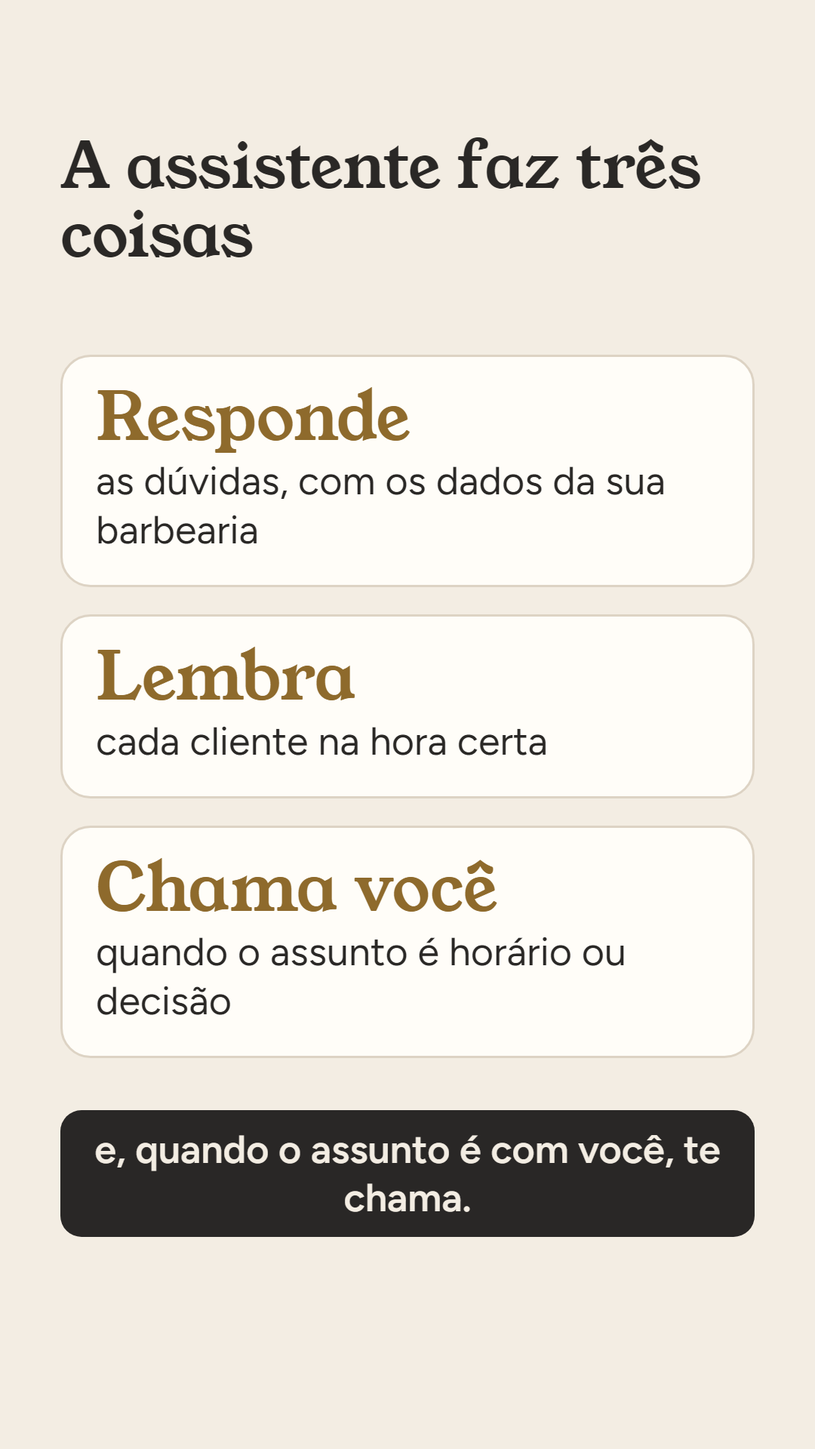
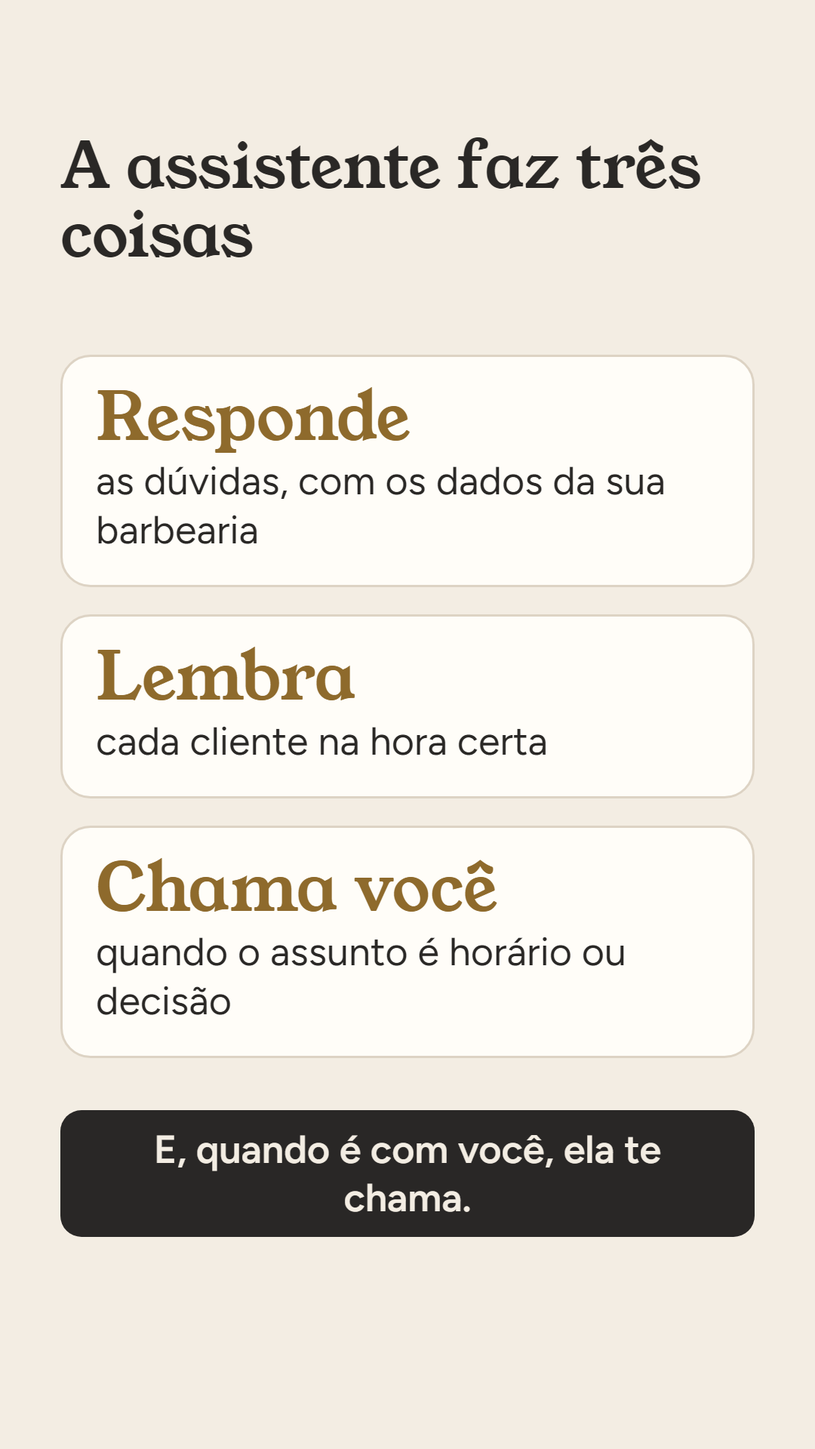
AI-007: narração clara, sem "IA", com a voz B
DEC-014: falas reescritas em frases curtas e pausadas, sem "IA",
palavras estrangeiras, siglas, algarismos ou nome da barbearia; voz B
(pt-BR, ênfase 0,35, ritmo 0,3) como padrão em cenas.json. Verificador
cobre as novas regras; narrar.py usa o texto falado e monta o áudio
completo. Roteiro passa a 148,5 s.

Changed region(s): [[0.1222, 0.7812, 0.8861, 0.8125]]

diff --git a/docs/propostas/barbearia/whatsapp/video/narracao/narrar.py b/docs/propostas/barbearia/whatsapp/video/narracao/narrar.py
@@ -19,8 +19,9 @@ from chatterbox.mtl_tts import ChatterboxMultilingualTTS
 
 PASTA_VIDEO = Path(__file__).resolve().parent.parent
 MODELOS = ["ptbr", "multi"]
-# Ajustes de pronúncia: o texto falado pode diferir da legenda.
-PRONUNCIA = {r"\bIA\b": "I.A."}
+# Ajustes de pronúncia, se algum termo soar mal. Preferir reescrever a fala (campo "fala"
+# em cenas.json): siglas, palavras estrangeiras e algarismos ficam fora da narração (DEC-014).
+PRONUNCIA = {}
 
 
 def carregar_ptbr(device):
@@ -70,7 +71,7 @@ def carregar_ptbr(device):
 def carregar():
     config = json.loads((PASTA_VIDEO / "config.json").read_text(encoding="utf-8"))
     roteiro = json.loads((PASTA_VIDEO / "cenas.json").read_text(encoding="utf-8"))
-    return config, roteiro["cenas"]
+    return config, roteiro["cenas"], roteiro.get("voz", {})
 
 
 def preencher(texto, config):
@@ -87,16 +88,16 @@ def trechos(cena):
     """(início, fim, texto) de cada trecho narrado, em segundos dentro da cena."""
     fim_cena = cena["duracao_s"]
     if cena["legendas"]:
-        return [(l["de"], l["ate"], l["texto"]) for l in cena["legendas"]]
+        return [(l["de"], l["ate"], l.get("fala", l["texto"])) for l in cena["legendas"]]
     if cena["tipo"] == "frase":
         linhas = cena["linhas"]
-        return [(l["de"], linhas[i + 1]["de"] if i + 1 < len(linhas) else fim_cena, l["texto"]) for i, l in enumerate(linhas)]
+        return [(l["de"], linhas[i + 1]["de"] if i + 1 < len(linhas) else fim_cena, l.get("fala", l["texto"])) for i, l in enumerate(linhas)]
     if cena["tipo"] == "perguntas":
         itens = cena["itens"]
-        lista = [(0.3, itens[0]["de"], cena["titulo"])]
+        lista = [(0.3, itens[0]["de"], cena.get("titulo_fala", cena["titulo"]))]
         for i, item in enumerate(itens):
             fim = itens[i + 1]["de"] if i + 1 < len(itens) else fim_cena
-            lista.append((item["de"], fim, f'{item["titulo"]} {item["texto"]}'))
+            lista.append((item["de"], fim, item.get("fala", f'{item["titulo"]} {item["texto"]}')))
         return lista
     return []
 
@@ -105,14 +106,17 @@ def main():
     ap = argparse.ArgumentParser()
     ap.add_argument("--cenas", default="todas", help="números das cenas separados por vírgula, ou 'todas'")
     ap.add_argument("--nome", default="narracao", help="subpasta de saida/narracao/")
-    ap.add_argument("--modelo", choices=MODELOS, default="ptbr")
-    ap.add_argument("--exaggeration", type=float, default=0.5)
-    ap.add_argument("--cfg", type=float, default=0.5)
+    ap.add_argument("--modelo", choices=MODELOS, help="padrão: bloco 'voz' de cenas.json")
+    ap.add_argument("--exaggeration", type=float, help="ênfase; padrão: bloco 'voz' de cenas.json")
+    ap.add_argument("--cfg", type=float, help="ritmo; padrão: bloco 'voz' de cenas.json")
     ap.add_argument("--voz", help="arquivo de áudio de referência (só com direito de uso)")
     ap.add_argument("--semente", type=int, default=42)
     args = ap.parse_args()
 
-    config, cenas = carregar()
+    config, cenas, voz = carregar()
+    args.modelo = args.modelo or voz.get("modelo", "ptbr")
+    args.exaggeration = voz.get("exaggeration", 0.5) if args.exaggeration is None else args.exaggeration
+    args.cfg = voz.get("cfg", 0.5) if args.cfg is None else args.cfg
     escolhidas = range(len(cenas)) if args.cenas == "todas" else [int(n) for n in args.cenas.split(",")]
     device = "cuda" if torch.cuda.is_available() else "mps" if torch.backends.mps.is_available() else "cpu"
     modelo = carregar_ptbr(device) if args.modelo == "ptbr" else ChatterboxMultilingualTTS.from_pretrained(device=device, t3_model="v3")
@@ -120,9 +124,11 @@ def main():
     saida.mkdir(parents=True, exist_ok=True)
     print(f"Dispositivo: {device} · modelo: {args.modelo} · exaggeration {args.exaggeration} · cfg {args.cfg}")
 
+    faixas = []
     for n in escolhidas:
         cena = cenas[n]
         faixa = torch.zeros(1, int(cena["duracao_s"] * modelo.sr))
+        faixas.append(faixa)
         for inicio, fim, texto in trechos(cena):
             torch.manual_seed(args.semente)
             onda = modelo.generate(
@@ -142,6 +148,11 @@ def main():
         arquivo = saida / f"cena-{n:02d}-{cena['id']}.wav"
         ta.save(str(arquivo), faixa, modelo.sr)
         print(f"  -> {arquivo.relative_to(PASTA_VIDEO)}")
+
+    if len(faixas) == len(cenas):
+        completa = saida / "narracao-completa.wav"
+        ta.save(str(completa), torch.cat(faixas, dim=-1), modelo.sr)
+        print(f"Vídeo inteiro: {completa.relative_to(PASTA_VIDEO)} ({sum(c['duracao_s'] for c in cenas)} s)")
 
 
 if __name__ == "__main__":

diff --git a/docs/propostas/barbearia/whatsapp/video/roteiro.md b/docs/propostas/barbearia/whatsapp/video/roteiro.md
@@ -1,32 +1,37 @@
 # Roteiro do vídeo para o dono da barbearia
 
-AI-007, etapa 1, para aprovação de Arthur. Fonte do conteúdo do vídeo; `cenas.json` traduz este roteiro para o código e os dois andam juntos. Regras: [prompt](../prompt-video.md), [cenários](../cenarios.md), DEC-011 e DEC-012. Nomes vêm de `config.json` (padrão: Barbearia Exemplo, João, Pedro, Rafael). Valores e benefícios são fictícios.
+AI-007, para aprovação de Arthur. Fonte do conteúdo do vídeo; `cenas.json` traduz este roteiro para o código e os dois andam juntos. Regras: [prompt](../prompt-video.md), [cenários](../cenarios.md), DEC-011, DEC-012, DEC-013 e DEC-014. Nomes vêm de `config.json` (padrão: Barbearia Exemplo, João, Pedro, Rafael). Valores e benefícios são fictícios.
 
-**Formato:** vertical 1080×1920, 30 fps, **145 s**, legendas embutidas. "IA" é dita uma única vez (cena 2). Narração ainda não gravada: entra na etapa 2.
+**Formato:** vertical 1080×1920, 30 fps, **148,5 s**, legendas embutidas. **Voz:** Chatterbox local, variante pt-BR, ênfase 0,35 e ritmo 0,3 (voz B).
+
+**Narração (DEC-014):** frases curtas, uma por legenda, com pausa entre elas. A fala não diz "IA", palavras estrangeiras, siglas, números em algarismos nem o nome da barbearia. Onde a tela mostra algo diferente do que se fala, `cenas.json` usa o campo `fala`.
 
 ## Cenas
 
-| # | Tempo | Cena | Na tela | Narração e legenda |
+| # | Tempo | Cena | Na tela | Narração (cada linha é uma frase com pausa) |
 |---|---|---|---|---|
-| 0 | 0–7 s | Gancho | Tela escura com o nome da barbearia e mensagens de clientes chegando: "Quanto tá a barba?", "Abre sábado?", "Tem horário hoje?", "Aceita Pix?", "Onde fica?", "Faz degradê?"; contador "6 mensagens novas" | "E se o WhatsApp da {BARBEARIA} respondesse sozinho, e você só entrasse quando precisasse?" |
-| 1 | 7–14 s | O problema | Tesoura desenhada e um contador de mensagens subindo até 12: "mensagens esperando" | "Você está com a tesoura na mão, e o cliente quer saber preço, endereço, horário..." |
-| 2 | 14–25 s | A solução | Título "A assistente faz três coisas" e três cartões: **Responde** as dúvidas, com os dados da sua barbearia · **Lembra** cada cliente na hora certa · **Chama você** quando o assunto é horário ou decisão | "Conheça a assistente: uma IA que tira as dúvidas, manda lembretes para cada cliente e, quando o assunto é com você, te chama." |
-| 3 | 25–38 s | Tira dúvidas | Selo "valores de exemplo". Cliente: "Quanto tá a barba? Aceita Pix? Onde fica?" · Assistente: "Barba: R$ 35, uns 30 min / Pix, débito, crédito ou dinheiro / Rua das Palmeiras, 120" | "Três perguntas de uma vez? Ela responde tudo, só com as informações da sua barbearia." |
-| 4 | 38–55 s | Lembra cada cliente | Avisos "Pedro aceitou receber lembretes" e "14 dias desde a última barba". Assistente: "Fala, Pedro! Sua última barba aqui foi há 14 dias. Bora dar aquele talento?" · Cliente: "Bora! Amanhã no fim da tarde, com o Rafael" · Assistente: "Fechado! Vou passar seu pedido para o João, que confirma o horário." | "Ela sabe que o Pedro faz a barba a cada duas semanas. No dia certo, ela puxa conversa e monta o pedido para você." |
-| 5 | 55–75 s | Quando é com você | Selo de estado "Esperando você" → "Você está na conversa" (com "a assistente fica em silêncio") → "Voltou para a assistente". Resumo: "Pedido do Pedro · Barba · Amanhã, fim da tarde · Com o Rafael". João: "Oi, Pedro, aqui é o João! Amanhã tenho 18h30 com o Rafael. Pode ser?" · Cliente: "Fechou!" | "O pedido chega pronto para você. Quando você escreve, a assistente fica quieta. Quem confirma o horário é sempre você." |
-| 6 | 75–87 s | Datas especiais | Selo "valores de exemplo". Aviso "No aniversário do Pedro" · Assistente: "Feliz aniversário, Pedro! Este mês a barba é por nossa conta." · Aviso "No Dia dos Pais, para quem contou que é pai" · Assistente: "Feliz Dia dos Pais! Nesta semana, o combo está R$ 60." | "Aniversário, Dia dos Pais, promoção da semana: só os benefícios que você aprovar." |
-| 7 | 87–105 s | Limites claros | Cliente: "Meu corte ficou torto." · Assistente: "Sinto muito! Vou chamar o João agora para resolver com você." · Cliente: "É robô?" · Assistente: "Sou a assistente virtual da Barbearia Exemplo. Quer falar com o João?" · Cliente: "Não me manda mais isso." · Assistente: "Combinado, não envio mais. Quando quiser, é só chamar." | "Reclamação vem direto para você. Ela não finge ser gente. E quem pede para parar, para na hora." |
-| 8 | 105–111 s | Regra de ouro | Tela escura: "A assistente atende." e, em destaque, "Quem decide é você." | Igual ao texto da tela; sem legenda extra |
-| 9 | 111–137 s | O que preciso de você | Título "Para começar, preciso de 5 respostas suas" e as perguntas, uma a cada 4,6 s, acumulando: **Agenda:** onde você anota seus horários hoje? · **Devolver a conversa:** uma palavra, um botão ou automático? · **Mensagens:** no máximo uma por semana por cliente? · **Áudio e foto:** a assistente deve entender? · **Benefícios:** quais você toparia de verdade? | Lê o título e cada pergunta; sem legenda extra |
-| 10 | 137–145 s | Chamada final | Listras de poste à direita, nome da barbearia, "Me responde aqui mesmo no WhatsApp" e a linha pequena "Antes de ligar de verdade, conferimos as regras do WhatsApp e da LGPD." | "Me responde por aqui que a gente ajusta tudo do seu jeito." |
+| 0 | 0–8 s | Gancho | Tela escura com o nome da barbearia e mensagens de clientes chegando: "Quanto tá a barba?", "Abre sábado?", "Tem horário hoje?", "Aceita Pix?", "Onde fica?", "Faz degradê?"; contador de mensagens novas | E se a sua barbearia respondesse sozinha? / E você só entrasse quando precisasse? |
+| 1 | 8–15,5 s | O problema | Tesoura desenhada e um contador de mensagens subindo até 12: "mensagens esperando" | Você está com a tesoura na mão. / E o cliente quer saber preço, endereço e horário. |
+| 2 | 15,5–26,5 s | A solução | Título "A assistente faz três coisas" e três cartões: **Responde** as dúvidas, com os dados da sua barbearia · **Lembra** cada cliente na hora certa · **Chama você** quando o assunto é horário ou decisão | Conheça a assistente da sua barbearia. / Ela tira as dúvidas. / Lembra cada cliente. / E, quando é com você, ela te chama. |
+| 3 | 26,5–39,5 s | Tira dúvidas | Selo "valores de exemplo". Cliente: "Quanto tá a barba? Aceita Pix? Onde fica?" · Assistente: "Barba: R$ 35, uns 30 min / Pix, débito, crédito ou dinheiro / Rua das Palmeiras, 120" | Três perguntas de uma vez? / Ela responde tudo. / Só com as informações da sua barbearia. |
+| 4 | 39,5–56,5 s | Lembra cada cliente | Avisos "Pedro aceitou receber lembretes" e "14 dias desde a última barba". Assistente: "Fala, Pedro! Sua última barba aqui foi há 14 dias. Bora dar aquele talento?" · Cliente: "Bora! Amanhã no fim da tarde, com o Rafael" · Assistente: "Fechado! Vou passar seu pedido para o João, que confirma o horário." | Ela sabe que o Pedro faz a barba a cada duas semanas. / No dia certo, ela puxa conversa. / E monta o pedido para você. |
+| 5 | 56,5–76,5 s | Quando é com você | Selo de estado "Esperando você" → "Você está na conversa" (com "a assistente fica em silêncio") → "Voltou para a assistente". Resumo: "Pedido do Pedro · Barba · Amanhã, fim da tarde · Com o Rafael". João: "Oi, Pedro, aqui é o João! Amanhã tenho 18h30 com o Rafael. Pode ser?" · Cliente: "Fechou!" | O pedido chega pronto para você. / Quando você escreve, a assistente fica quieta. / Quem confirma o horário é sempre você. |
+| 6 | 76,5–88,5 s | Datas especiais | Selo "valores de exemplo". Aviso "No aniversário do Pedro" · Assistente: "Feliz aniversário, Pedro! Este mês a barba é por nossa conta." · Aviso "No Dia dos Pais, para quem contou que é pai" · Assistente: "Feliz Dia dos Pais! Nesta semana, o combo está R$ 60." | Aniversário. / Dia dos Pais. / Promoção da semana. / Só os benefícios que você aprovar. |
+| 7 | 88,5–106,5 s | Limites claros | Cliente: "Meu corte ficou torto." · Assistente: "Sinto muito! Vou chamar o João agora para resolver com você." · Cliente: "É robô?" · Assistente: "Sou a assistente virtual da Barbearia Exemplo. Quer falar com o João?" · Cliente: "Não me manda mais isso." · Assistente: "Combinado, não envio mais. Quando quiser, é só chamar." | Reclamação vem direto para você. / Ela não finge ser gente. / E quem pede para parar, para na hora. |
+| 8 | 106,5–112,5 s | Regra de ouro | Tela escura: "A assistente atende." e, em destaque, "Quem decide é você." | A assistente atende. / Quem decide é você. (sem legenda extra) |
+| 9 | 112,5–140,5 s | O que preciso de você | Título "Para começar, preciso de 5 respostas suas" e as perguntas, uma a cada 4,6 s, acumulando: **Agenda:** onde você anota seus horários hoje? · **Devolver a conversa:** uma palavra, um botão ou automático? · **Mensagens:** no máximo uma por semana por cliente? · **Áudio e foto:** a assistente deve entender? · **Benefícios:** quais você toparia de verdade? | Para começar, preciso de cinco respostas suas. / Agenda: onde você anota seus horários hoje? / Devolver a conversa: palavra, botão ou automático? / Mensagens: no máximo uma por semana por cliente? / Áudio e foto: a assistente deve entender? / Benefícios: quais você toparia de verdade? (sem legenda extra) |
+| 10 | 140,5–148,5 s | Chamada final | Listras de poste à direita, nome da barbearia, "Me responde aqui mesmo no WhatsApp" e a linha pequena "Antes de ligar de verdade, conferimos as regras do WhatsApp e da LGPD." | Me responde por aqui. / E a gente ajusta tudo do seu jeito. |
 
-As cenas 4 e 5 são a mesma conversa. As falas do dono foram adaptadas do cenário "Pedido de horário vai para o dono" do simulador.
+As cenas 4 e 5 são a mesma conversa. As falas do dono foram adaptadas do cenário "Pedido de horário vai para o dono" do simulador. "WhatsApp" continua escrito na tela da cena 10, mas não é falado.
 
 ## Regras conferidas por `npm run verificar`
 
 - Cada balão, aviso, cartão e pergunta fica na tela pelo menos 1,5 s + 60 ms por caractere.
 - Legendas com até 17 caracteres por segundo, terminando dentro da cena.
-- Duração total entre 90 e 150 s; "IA" uma única vez; nenhum código interno; nenhum nome sem valor.
+- Duração total entre 90 e 150 s; nenhum "IA"; nenhum código interno; nenhum nome sem valor.
+- Fala sem algarismos, sem "WhatsApp", sem siglas e sem o nome da barbearia.
+
+`narracao/narrar.py` também avisa quando uma fala gerada passa do tempo da sua legenda.
 
 ## Mensagem que acompanha o vídeo
 
@@ -40,6 +45,7 @@ Para Arthur enviar junto com o vídeo, com as perguntas completas:
 > 4. A assistente deve entender áudio? E foto de corte de referência: ela comenta ou passa para o barbeiro?
 > 5. Quais benefícios você toparia de verdade? Aniversário, Dia dos Pais, combo em dia fraco?
 
-## Amostras da etapa 1
+## Amostras
 
-`saida/amostras/`: cena 2 aos 9,5 s, cena 5 aos 12 s e cena 9 aos 25,5 s. Gerar de novo com `npm run amostras`.
+- Imagem: `saida/amostras/` (cena 2 aos 9,5 s, cena 5 aos 12 s, cena 9 aos 25,5 s). Gerar de novo com `npm run amostras`.
+- Narração: `saida/narracao/voz-b/narracao-completa.wav`, só nesta máquina. Gerar de novo com `narracao/narrar.py --nome voz-b`.

diff --git a/HANDOFF.md b/HANDOFF.md
@@ -1,27 +1,29 @@
 # Passagem de responsabilidade
 
-- Atualizado em: 2026-10-02T22:21:23-03:00
+- Atualizado em: 2026-10-02T22:37:57-03:00
 - Tarefa: AI-007 — Vídeo explicativo do atendente para o dono da barbearia (READY_FOR_REVIEW).
 - Status: Claude Code encerrou a edição; arquivos liberados.
 
 ## Ponto exato
 
-Etapa 1 entregue e três amostras de voz da cena 2 geradas com Chatterbox local (DEC-013). Aguardando Arthur aprovar o roteiro e as amostras visuais e escolher a voz. Nada do vídeo completo foi renderizado.
+Narração completa de 148,5 s gerada com a voz B, sem "IA" e em frases curtas (DEC-014). Aguardando Arthur ouvir e aprovar o roteiro antes da renderização final. Nada do vídeo completo foi renderizado.
 
 ## Concluído
 
-- `video/`: roteiro, `config.json`, `cenas.json`, projeto Remotion, `npm run verificar`, `npm run amostras` e amostras visuais das cenas 2, 5 e 9.
-- `video/narracao/`: `requirements.txt` (Python 3.11, torch 2.6.0 CUDA 12.4, chatterbox e Perth fixados em commits do GitHub, `setuptools<81`) e `narrar.py`, que gera e posiciona cada fala no tempo da legenda.
-- Amostras de voz, só nesta máquina (fora do Git): `video/saida/narracao/ptbr-padrao`, `ptbr-calma` e `multi-padrao`.
+- `video/cenas.json`: falas em frases curtas, campos `fala` e `titulo_fala`, bloco `voz` com a voz B, tempos de 148,5 s.
+- `video/narracao/narrar.py`: usa o texto falado, a voz padrão de `cenas.json` e monta `narracao-completa.wav`.
+- `video/scripts/verificar.mjs`: zero "IA" e fala sem algarismos, "WhatsApp", siglas ou nome da barbearia.
+- `video/roteiro.md` e `prompt-video.md` atualizados conforme a DEC-014.
+- Só nesta máquina: `video/saida/narracao/voz-b/` (11 cenas e o áudio completo).
 
 ## Validações
 
-As três amostras cabem nas legendas e têm volume normal (`ffmpeg volumedetect`); CUDA ativo na RTX 3060 Ti. O agente não avaliou a qualidade das vozes, porque não ouve áudio.
+`npm run verificar` aprovado; `tsc` sem erros; todas as falas cabem nas legendas; volume médio -20,6 dB e pico 0,0 dB; amostras de imagem regeneradas.
 
 ## Pendências e próxima ação
 
-1. Arthur escolhe a voz e aprova o roteiro.
-2. Etapa 2: `narrar.py --nome final --modelo <escolhido>` para as 11 cenas; corrigir trechos que passarem do tempo; ligar o áudio ao Remotion (`<Audio>` de `@remotion/media` por cena), normalizar volume, criar `npm run render` (versão até 16 MB e versão alta), `legendas.srt`, `capa.png` e `saida/frames/`; conferir o checklist do prompt item por item.
+1. Arthur ouve a narração completa e aprova o roteiro. Ajustes de fala: editar `cenas.json` (campo `fala` ou texto da legenda), rodar `npm run verificar` e `narrar.py --nome voz-b`.
+2. Renderização final: `<Audio>` de `@remotion/media` por cena com os WAVs de `voz-b`, normalização de volume (por exemplo, `loudnorm` do ffmpeg), `npm run render` com versão até 16 MB e versão alta, `legendas.srt` a partir de `cenas.json`, `capa.png`, `saida/frames/` e o checklist do prompt item por item.
 3. A variante `ptbr` usa o decodificador principal porque o `s3gen_v3` não encaixa no pacote; reavaliar quando o Chatterbox publicar suporte oficial.
 4. Seguem pendentes: Q1–Q12 do catálogo (AI-006) e o registro da reunião com o dono (AI-005).
 

diff --git a/WORKLOG.md b/WORKLOG.md
@@ -93,3 +93,9 @@ Agente: Claude Code (Claude Opus 5.5), Windows. Arthur perguntou pela ElevenLabs
 uv 0.12.22 instalado via pip do usuário; ambiente Python 3.11.17 em `video/narracao/.venv` (ignorado pelo Git) com torch 2.6.0+cu124; CUDA confirmado. A versão 0.1.7 do PyPI não trazia a variante pt-BR, e a biblioteca de marca d'água falhava sem `pkg_resources`. Dependências trocadas para commits fixos do GitHub (chatterbox `5de7a54`, Perth `ff1c8ac`) e `setuptools<81`. Nem o código do GitHub carrega sozinho a variante `ResembleAI/Chatterbox-Multilingual-pt-br` (MIT), e o decodificador `s3gen_v3` dela não encaixa no pacote. Por isso `narrar.py` monta a variante com `t3_pt_br` e o decodificador principal, avisando no console. Ao fixar a versão, um `Set-Content` em ASCII estragou os acentos do `requirements.txt`, que foi regravado em UTF-8.
 
 Amostras da cena 2 em `saida/narracao/` (fora do Git): `ptbr-padrao`, `ptbr-calma` (exaggeration 0,35, cfg 0,3) e `multi-padrao` (multilíngue v3). Todas as falas cabem no tempo das legendas (2,4 a 3,8 s em janelas de 3 a 3,9 s). Pelo `ffmpeg volumedetect`, todas têm 11 s, volume médio de -18,5 a -19,1 dB e pico até -0,1 dB. A qualidade da voz não foi avaliada pelo agente, que não ouve áudio: a escolha é de Arthur.
+
+## 2026-10-02T22:37:57-03:00 | AI-007 | Narração reescrita e gerada com a voz B
+
+Agente: Claude Code (Claude Opus 5.5), Windows. Arthur ouviu as amostras: "IA" soou mal, ele preferiu a voz B (pt-BR, ênfase 0,35, ritmo 0,3) e pediu frases curtas e pausadas, sem palavras de dicção ruim (DEC-014, que substitui a regra de dizer "IA" uma vez). Em `cenas.json`: cada frase virou uma legenda e um trecho de fala; o gancho trocou "WhatsApp da {BARBEARIA}" por "a sua barbearia"; foram acrescentados os campos `fala` e `titulo_fala` onde a tela difere da fala ("5" na tela, "cinco" na fala); o bloco `voz` define a voz B como padrão; duração passou de 145 para 148,5 s (gancho +1 s, problema +0,5 s, perguntas +2 s). `narrar.py` usa o texto falado e monta `narracao-completa.wav`. `verificar.mjs` exige zero "IA" e fala sem algarismos, "WhatsApp", siglas ou nome da barbearia; um falso positivo com `{CLIENTE}` foi corrigido verificando a fala com os nomes preenchidos.
+
+Narração completa em `saida/narracao/voz-b/` (fora do Git): 31 trechos, 148,5 s, volume médio -20,6 dB e pico 0,0 dB (normalizar na mixagem final). Quatro trechos curtos passaram 0,1 s da janela da legenda sem encostar no trecho seguinte; as quatro legendas foram alongadas. `npm run verificar` aprovado; `tsc` sem erros; amostras de imagem regeneradas com os novos tempos. A qualidade da fala segue para avaliação de Arthur, porque o agente não ouve áudio.

diff --git a/docs/propostas/barbearia/whatsapp/prompt-video.md b/docs/propostas/barbearia/whatsapp/prompt-video.md
@@ -44,13 +44,17 @@ Traduza os 4 estados para a linguagem do dono, sem códigos:
 
 ## Vocabulário
 
-- Na narração e nas legendas, diga **"assistente"** (no feminino). A palavra **"IA" aparece uma única vez**, na cena 2, para apresentar a solução.
-- Proibido na narração: modelo, API, prompt, n8n, automação, LGPD ou qualquer termo técnico. Exceção: uma única linha pequena no fim, "Antes de ligar de verdade, conferimos as regras do WhatsApp e da LGPD."
+- Na narração e nas legendas, diga **"assistente"** (no feminino). **Não diga "IA"**: soa mal na voz sintética (DEC-014, que substitui a regra anterior de dizer "IA" uma vez).
+- **Frases curtas e pausadas**, uma por legenda, para o dono entender com clareza.
+- A fala evita palavras com dicção ruim na voz sintética: palavras estrangeiras ("WhatsApp"), siglas, números em algarismos e o nome da barbearia (que é variável). Na tela eles podem aparecer.
+- Proibido na narração: modelo, API, prompt, n8n, automação, LGPD ou qualquer termo técnico. Exceção na tela, sem narração: uma única linha pequena no fim, "Antes de ligar de verdade, conferimos as regras do WhatsApp e da LGPD."
 - O simulador ainda usa "o assistente"; nome e gênero definitivos estão em aberto (Q10 do `cenarios.md`).
 
 ## Roteiro (estrutura obrigatória, ajuste o texto)
 
 Duração alvo: **90 a 150 segundos**. Se passar de 150 s, corte cenas; não acelere a fala nem encurte o tempo de leitura.
+
+A tabela abaixo é a estrutura original. As falas e os tempos finais estão em `video/roteiro.md` (frases curtas, sem "IA"; 148,5 s).
 
 | # | Tempo aprox. | Cena | O que aparece | Narração / legenda (sugestão) |
 |---|---|---|---|---|
@@ -128,7 +132,7 @@ O repositório é público e o GitHub limita arquivos grandes. Versione apenas `
 - [ ] Duração entre 90 e 150 s; arquivo para WhatsApp ≤ 16 MB; 1080×1920.
 - [ ] Nenhum código interno (A04, E2, DEC-011...) aparece na tela.
 - [ ] A assistente nunca aparece marcando horário, dando desconto ou fingindo ser pessoa.
-- [ ] "IA" aparece uma única vez, na cena 2.
+- [ ] "IA" não aparece; a fala não tem palavras estrangeiras, siglas, algarismos nem o nome da barbearia.
 - [ ] Selo "valores de exemplo" em toda tela com preço ou benefício.
 - [ ] Cada balão respeita o tempo mínimo de leitura.
 - [ ] Trocar `{BARBEARIA}` e `{DONO}` no `config.json` e renderizar de novo funciona.

diff --git a/DECISIONS.md b/DECISIONS.md
@@ -79,3 +79,9 @@ Impacto: AI-007 executa o prompt corrigido, guardado em `docs/propostas/barbeari
 Em 2026-10-02T22:01:37-03:00, depois de comparar opções de voz, Arthur escolheu o **Chatterbox**, da Resemble AI, rodando localmente, para a narração do vídeo. Motivos: é gratuito, a licença MIT permite uso comercial, o texto não sai da máquina e a RTX 3060 Ti dá conta. Descartados: o plano gratuito da ElevenLabs (sem licença comercial e com atribuição obrigatória), XTTS-v2 e F5-TTS (modelos de licença não comercial) e edge-tts (uso não oficial do leitor do Edge). Azure Speech e Google Cloud ficam como alternativa se a qualidade não agradar. Fonte: resposta explícita nesta sessão.
 
 Impacto: instalar Python 3.11 gerenciado, PyTorch 2.6 com CUDA e `chatterbox-tts` num ambiente local ignorado pelo Git, com dependências declaradas no repositório. O áudio gerado traz a marca d'água imperceptível da Resemble AI. Primeiro sai uma amostra da cena 2 para Arthur escolher a voz; a narração completa faz parte da etapa 2, que ainda depende da aprovação do roteiro. Nenhuma clonagem de voz de pessoa real sem consentimento.
+
+## DEC-014 — Narração clara, sem "IA", com a voz B
+
+Em 2026-10-02T22:31:27-03:00, depois de ouvir as amostras da cena 2, Arthur avaliou que "IA" soa mal na voz sintética e pediu para **tirar da narração as palavras sem boa dicção** e usar **frases curtas e pausadas**, para o dono entender com clareza. Escolheu a **voz B** (variante pt-BR, ênfase 0,35, ritmo 0,3) como base para adaptar e melhorar. Fonte: mensagem explícita nesta sessão.
+
+Impacto: substitui a regra da DEC-012 de dizer "IA" uma vez; agora o vídeo não diz nem mostra "IA" nas falas. O texto falado evita palavras estrangeiras (como "WhatsApp"), siglas e números em algarismos, e não fala o nome da barbearia, que é variável. A legenda acompanha a fala. Cada frase vira um trecho separado, com pausa entre os trechos. A duração total continua dentro de 90 a 150 s.

diff --git a/CURRENT_STATE.md b/CURRENT_STATE.md
@@ -1,13 +1,13 @@
 # Estado atual
 
-- Atualizado em: 2026-10-02T22:21:23-03:00
+- Atualizado em: 2026-10-02T22:37:57-03:00
 - Agente: Claude Code (Claude Opus 5.5), Windows; integrador dos registros comuns
 - Tarefa: AI-007 — Vídeo explicativo do atendente para o dono da barbearia
 - Status: READY_FOR_REVIEW
-- Etapa: 1 entregue; três amostras de voz da cena 2 prontas. A etapa 2 aguarda Arthur aprovar o roteiro e escolher a voz.
-- Autorização: DEC-012 e DEC-013. Base: DEC-011.
+- Etapa: narração completa gerada com a voz B, sem "IA" e em frases curtas (DEC-014). A renderização final aguarda Arthur.
+- Autorização: DEC-012, DEC-013 e DEC-014. Base: DEC-011.
 - Arquivos em edição: nenhum
-- Próxima ação: Arthur ouve `docs/propostas/barbearia/whatsapp/video/saida/narracao/{ptbr-padrao,ptbr-calma,multi-padrao}/cena-02-solucao.wav` e escolhe; com o roteiro aprovado, gerar a narração completa (`narrar.py --nome final`), incluir o áudio no Remotion, criar `npm run render`, `.srt`, capa e frames.
+- Próxima ação: Arthur ouve `docs/propostas/barbearia/whatsapp/video/saida/narracao/voz-b/narracao-completa.wav` e aprova o roteiro de 148,5 s. Depois: ligar o áudio ao Remotion, normalizar volume, criar `npm run render` (versão até 16 MB e versão alta), `legendas.srt`, `capa.png` e `saida/frames/`.
 - Tarefas relacionadas: AI-006 READY_FOR_REVIEW (catálogo e simulador). AI-001, AI-002, AI-004 e AI-005 READY_FOR_REVIEW, sem aceite inferido.
 - Campo: dono de barbearia MEI a convidar, segundo Arthur; participação e dados não confirmados.
-- Limitações: dados fictícios; demonstração ilustrativa que não substitui o diagnóstico (DEC-010). Os áudios e o ambiente Python ficam só nesta máquina (fora do Git); em outra máquina, recriar conforme o README do vídeo.
+- Limitações: dados fictícios; demonstração ilustrativa que não substitui o diagnóstico (DEC-010). Áudios e ambiente Python só nesta máquina, fora do Git.

diff --git a/CHANGELOG.md b/CHANGELOG.md
@@ -24,3 +24,4 @@
 - AI-006: DEC-011; regras e catálogo de 99 cenários do atendimento por WhatsApp da barbearia, com quatro estados da conversa e passagem ao dono na mesma conversa; simulador de demonstração com dez cenários vitrine e dados fictícios em `docs/propostas/barbearia/whatsapp/`.
 - AI-007: DEC-012; prompt do vídeo para o dono corrigido e movido para `docs/propostas/barbearia/whatsapp/`; etapa 1 executada: roteiro de 145 s em 11 cenas, dados do vídeo, projeto Remotion, verificação automática das regras do prompt e três quadros de amostra.
 - AI-007: DEC-013; narração local com Chatterbox (MIT): ambiente Python 3.11 com PyTorch CUDA declarado em `video/narracao/requirements.txt` e script `narrar.py`, que posiciona cada fala no tempo da legenda; três amostras de voz da cena 2.
+- AI-007: DEC-014; narração reescrita sem "IA", palavras estrangeiras, siglas ou algarismos, em frases curtas e pausadas; voz B como padrão em `cenas.json`; verificação automática dessas regras; narração completa de 148,5 s gerada localmente.

diff --git a/BACKLOG.md b/BACKLOG.md
@@ -76,6 +76,7 @@ Status: `[ ] NOT_STARTED`, `[~] IN_PROGRESS`, `[?] BLOCKED`, `[R] READY_FOR_REVI
 ## [R] AI-007 — Vídeo explicativo do atendente para o dono da barbearia
 
 - Status: READY_FOR_REVIEW
+- Aguardando Arthur: ouvir a narração completa com a voz B, já sem "IA" e em frases curtas (DEC-014), em `video/saida/narracao/voz-b/narracao-completa.wav` (fora do Git), e aprovar o roteiro de 148,5 s para a renderização final.
 - Aguardando Arthur: aprovar roteiro e amostras visuais e escolher a voz entre três amostras da cena 2 geradas com Chatterbox local (DEC-013), em `video/saida/narracao/` (fora do Git).
 - Entrega da etapa 1: prompt corrigido, `video/roteiro.md`, `config.json`, `cenas.json`, projeto Remotion com as 11 cenas, verificação automática das regras e amostras das cenas 2, 5 e 9 em `video/saida/amostras/`. A etapa 2 (vídeo completo) aguarda aprovação de Arthur.
 - Autorização: DEC-012; prompt de Arthur em `docs/propostas/barbearia/whatsapp/prompt-video.md`.
